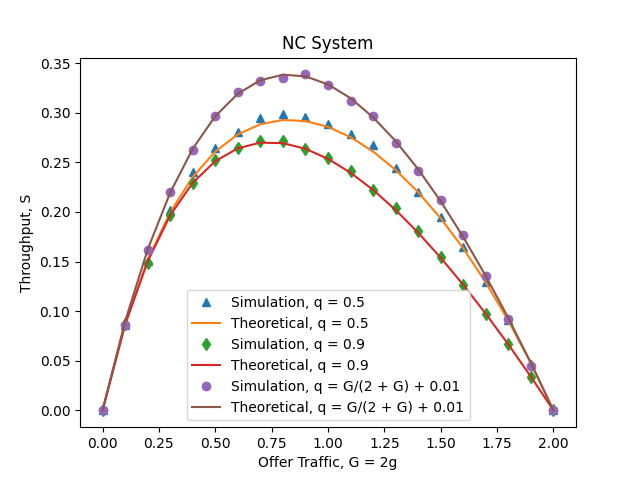
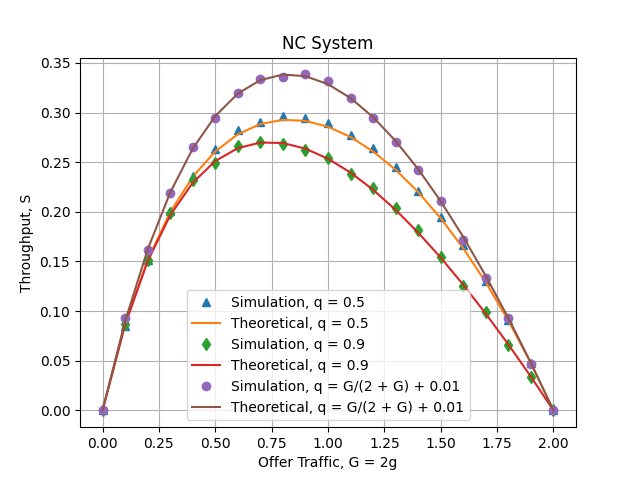
update solution

diff --git a/slottedAloha.py b/slottedAloha.py
@@ -24,7 +24,7 @@ class SlottedAloha:
             tmp_g = G/2
             pass_pkt = 0
             queue_length = 0
-            print(tmp_g)
+            # print(tmp_g)
             queue_value = []
             for i in range(self.no_slot):  
                 ATrans = np.random.rand() < tmp_g
@@ -53,12 +53,15 @@ class SlottedAloha:
             self.thput_ana.append(self.thrput_non_coding(G))
             
         plt.plot(self._g, self.thput_sim, 'o', self._g, self.thput_ana, '-')
+        plt.grid(True)
+        # plt.xlim([0, 2])
         plt.xlabel('Offer Traffic, G = 2g')
         plt.ylabel('Throughput, S')
         plt.title('Non-NC System')
         plt.legend(['Simulation', 'Theoretical'])
         plt.savefig('non_nc.png')
         # plt.show()
+        plt.close()
     
     def thrput_coding(self, G, q): 
         S = 2*q*G*(2 - G)/(q*(2 + G)**2 - G**2)
@@ -131,13 +134,15 @@ class SlottedAloha:
                 legend_arr.append(f'Simulation, q = G/(2 + G) + 0.01')
                 legend_arr.append(f'Theoretical, q = G/(2 + G) + 0.01')
                
-
+        plt.grid(True)
+        # plt.xlim([0, 2])
         plt.xlabel('Offer Traffic, G = 2g')
         plt.ylabel('Throughput, S')
         plt.title('NC System')
         plt.legend(legend_arr)
         plt.savefig('nc.png')
         # plt.show() 
+        plt.close()
 
 
                     
@@ -147,5 +152,6 @@ class SlottedAloha:
 
 # if __name__ == '__main': 
 SA = SlottedAloha()
-SA.coding_plot()
 SA.non_coding()
+SA.coding_plot()
+
